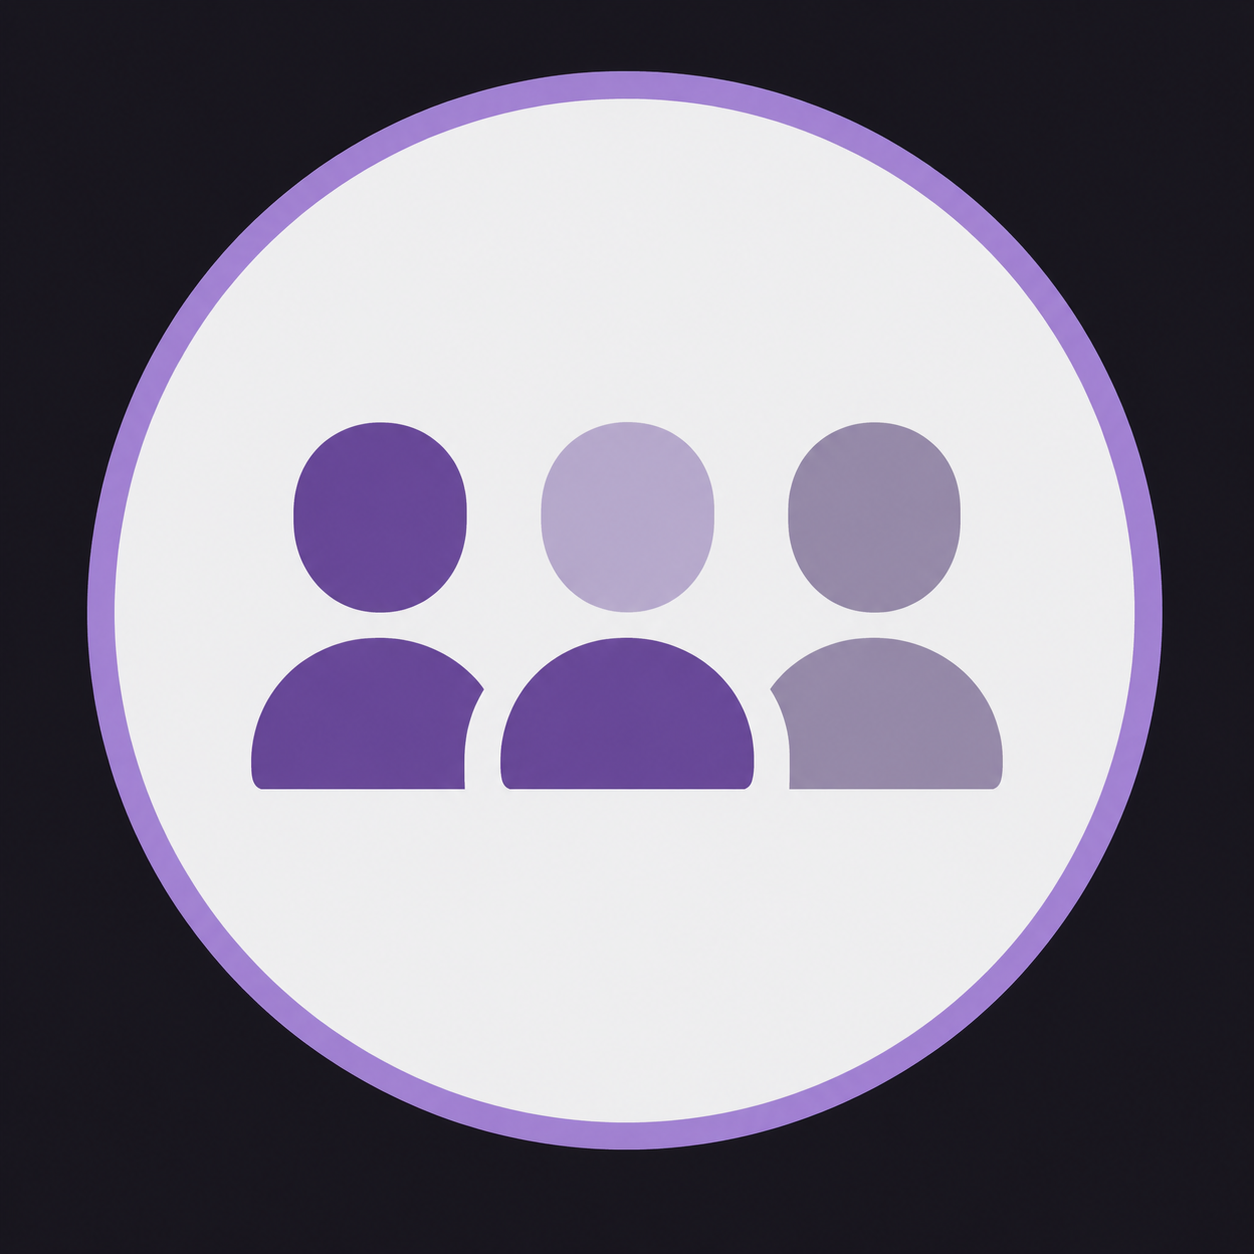
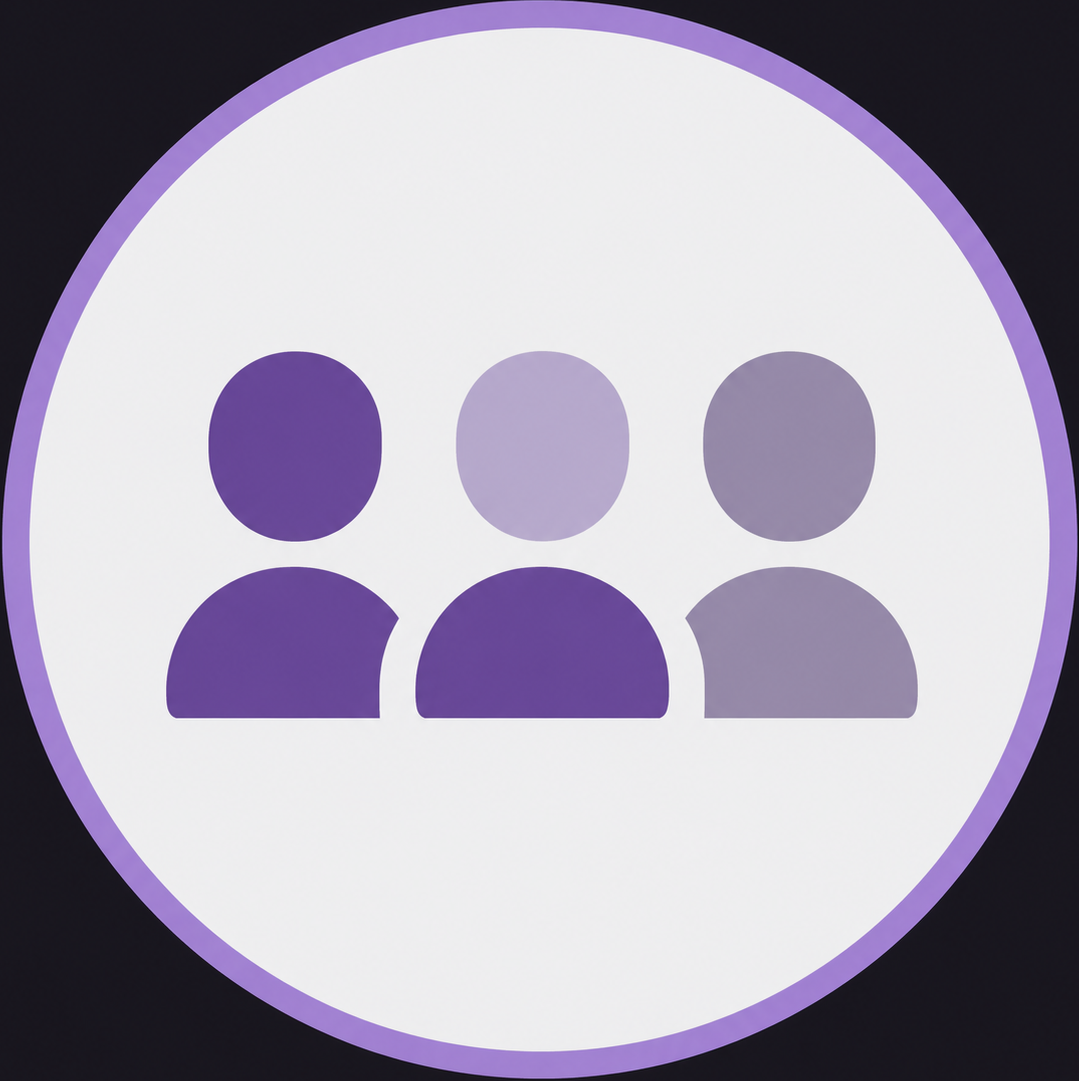
updated configPopup to display section titles

diff --git a/src/svelte/components/MainChannelsList.svelte b/src/svelte/components/MainChannelsList.svelte
@@ -68,8 +68,19 @@ function show() {
 </script>
 
 <style>
+    .channels-list-root {
+        display: flex;
+        flex-direction: column;
+        height: 100%;
+        max-height: 100%;
+    }
+    .list-header {
+        flex: 0 0 auto;
+    }
     section {
-      overflow-y: scroll;
+      flex: 1 1 auto;
+      min-height: 0;
+      overflow-y: auto;
       /* max-height: 95%; */
     }
     input[type=text] {
@@ -81,7 +92,8 @@ function show() {
     input[type="text"]:focus {
         outline: none;
     }
-    :global(section a) {
+    :global(section#main-channels-list a) {
+      /* border: 1px solid red !important; */
         padding: 0.357em 0.57em;
     }
 
@@ -89,23 +101,26 @@ function show() {
 
 
 
-<!-- svelte-ignore a11y-click-events-have-key-events -->
-<!-- svelte-ignore a11y-no-static-element-interactions -->
- <!-- <div> -->
-  <!-- <input type="text" name="listFilter" id="listFilter" placeholder="Search through channels" bind:value={searchString} oninput={searchChange} /> -->
-  <input type="text" name="listFilter" id="listFilter" placeholder={$_('mainList.searchPlaceholder')} bind:value={searchString} />
- <!-- </div> -->
-<section onclick={show}  id="main-channels-list" class="channels" use:dndzone={{items: filtered, flipDurationMs, dropFromOthersDisabled: true}} onconsider={handleDndConsider} onfinalize={handleDndFinalize}>
-            {#each filtered as item(item.id)}
-            <DraggableChannel 
-            channelId={item.channel_id} 
-            channelName={item.channel_name} 
-            channelProfilePic={item.profile_image_url} 
-            viewerCount={item.viewer_count}
-            gameName={item.game_name}
-            isLive={item.isLive}
-            color=''
-            bearCard=true/>
-            {/each}
-</section>
+<div class="channels-list-root">
+  <div class="list-header">
+    <h2>{$_('configPopup.channelsList')}</h2>
+    <!-- <input type="text" name="listFilter" id="listFilter" placeholder="Search through channels" bind:value={searchString} oninput={searchChange} /> -->
+    <input type="text" name="listFilter" id="listFilter" placeholder={$_('mainList.searchPlaceholder')} bind:value={searchString} />
+  </div>
+  <!-- svelte-ignore a11y_click_events_have_key_events -->
+  <!-- svelte-ignore a11y_no_static_element_interactions -->
+  <section onclick={show}  id="main-channels-list" class="channels" use:dndzone={{items: filtered, flipDurationMs, dropFromOthersDisabled: true}} onconsider={handleDndConsider} onfinalize={handleDndFinalize}>
+              {#each filtered as item(item.id)}
+              <DraggableChannel
+              channelId={item.channel_id}
+              channelName={item.channel_name}
+              channelProfilePic={item.profile_image_url}
+              viewerCount={item.viewer_count}
+              gameName={item.game_name}
+              isLive={item.isLive}
+              color=''
+              bearCard=true/>
+              {/each}
+  </section>
+</div>
 

diff --git a/src/svelte/components/ConfigPopup.svelte b/src/svelte/components/ConfigPopup.svelte
@@ -123,7 +123,6 @@
             {/if} -->
           </div>
         </div>
-        <h2>{$_('configPopup.channelsList')}</h2>
         <div class="flex-container">
           <div id="channels-ref-container" class="channels-container">
             {#if configManager.channelsPickRef.length > 0}
@@ -132,6 +131,7 @@
           </div>
           {#if configManager.channelsPickRef.length}
           <div id="config-list-container">
+            <h2>Channels</h2>
             <div id="config-list" class="channels-container">
               <ConfigList listId="rootList"
               configManager={configManager}
@@ -145,8 +145,11 @@
           </div>
           <!-- {#if !loading} -->
           {#if configManager.channelsPickRef.length && Object.getOwnPropertyNames(configManager.channelsConfigList).length > 0}
-          <div id="display-container" class="display-container">
-            <DisplayWrapper configManager={configManager} />
+          <div class="display-column">
+            <h2>Channels</h2>
+            <div id="display-container" class="display-container">
+              <DisplayWrapper configManager={configManager} />
+            </div>
           </div>
           {/if}
         </div>
@@ -239,10 +242,16 @@
     flex: 3.5 0 24rem;
     width: 24rem;
   }
-  div.display-container {
-    max-height: 100%;
-    overflow-y: scroll;
+  div.display-column {
+    display: flex;
+    flex-direction: column;
     flex: 0 0 24rem;
+    max-height: 100%;
+  }
+  div.display-container {
+    min-height: 0;
+    overflow-y: scroll;
+    flex: 1 1 auto;
   }
   div.channels-container {
     max-height: 100%;
